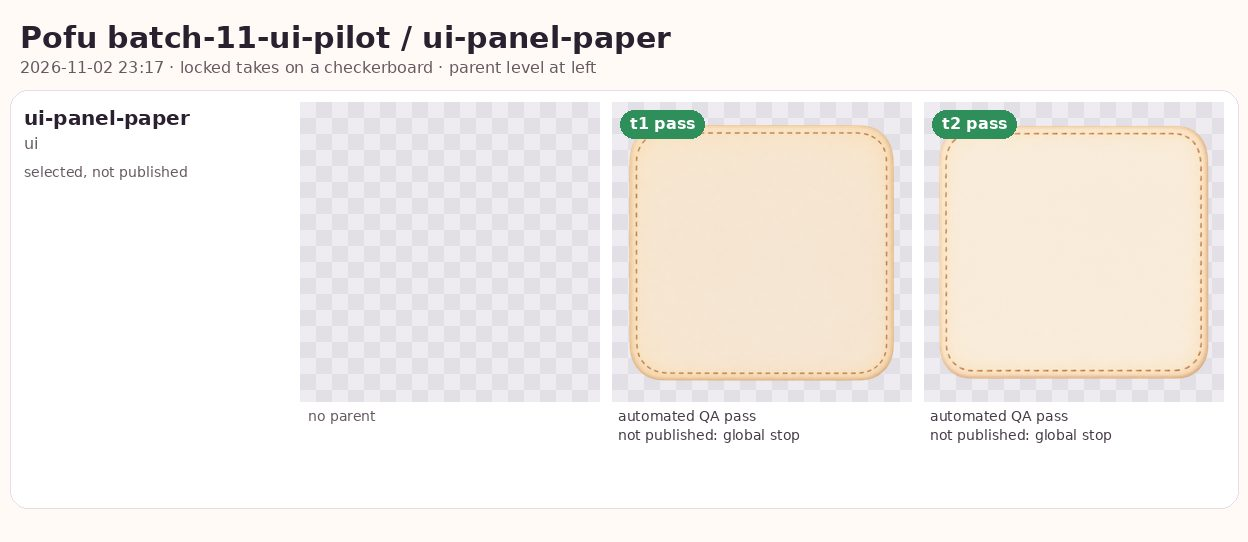
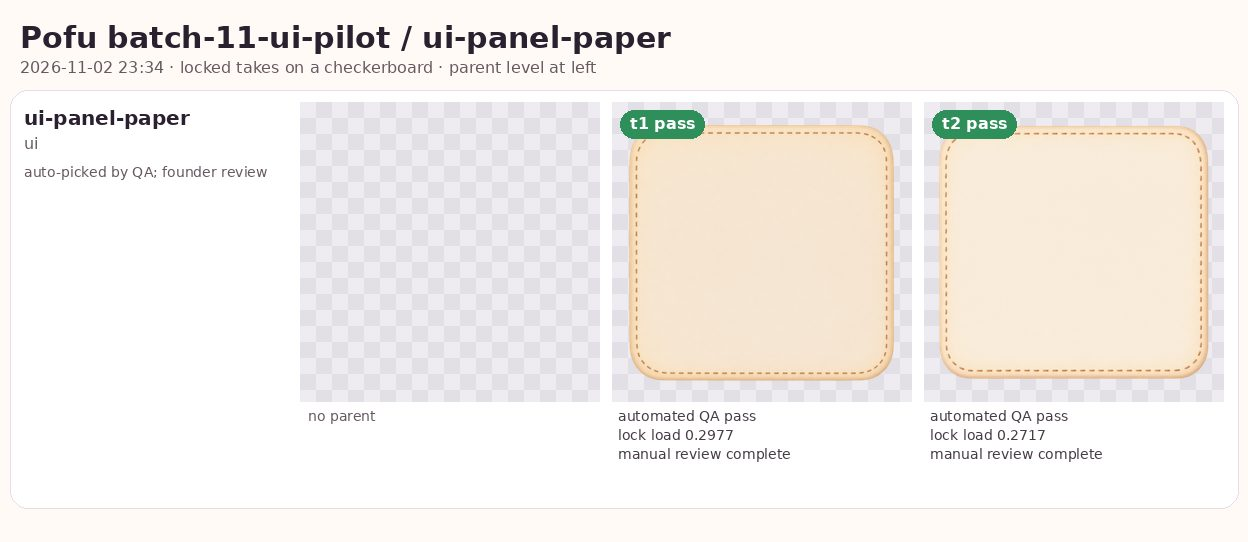
design(art): publish retained ui-panel-paper selection
Generated-With: OpenAI Codex

Changed region(s): [[0.75, 0.797, 0.9062, 0.8561], [0.5, 0.797, 0.6562, 0.8561], [0.0, 0.2952, 0.2188, 0.3247]]

diff --git a/design/art/ui/ui-panel-paper/provenance.md b/design/art/ui/ui-panel-paper/provenance.md
@@ -1,0 +1,71 @@
+# ui__panel-paper
+
+- **Approved:** 2026-11-02T23:33:58+00:00 from batch `batch-11-ui-pilot`, job `ui-panel-paper`, take t2
+  of 2 considered.
+- **Generating account:** Founder's uncle's ChatGPT plan, used by the founder with permission
+  (chatgpt-plan).
+- **Tool:** codex-cloud;
+  generated 2026-11-02T23:14:31+00:00.
+- **Post-processing (human-authored, documented per art bible section 13):**
+  canvas fit, style lock preset `lock-light` (style_lock.json v2).
+- **Files:** `raw.webp` is the take as generated (webp q95), kept so the look can be re-locked; `ui-panel-paper.webp` is the lossless locked master the app and later edits use.
+- **Review note:** auto-picked by QA; founder review pending. Retained take2 reviewed at120pt height: flat unmarked cream centre, stitches and rounded outer edge remain within20pt caps; centre is suitable for tiling.
+
+## References
+
+- `design/reference/palette-card-world-props.png`: The palette card for props.
+
+## Prompt (fingerprint 554bc01cbf23d482)
+
+```text
+REFERENCES (attached, in this order):
+1. The palette card for props.
+
+A cream paper panel with softly rounded corners, a thin row of
+small, even, warm-brown stitches running just inside its edge all
+the way around, a faint darker paper edge outside the stitches. The
+middle is plain, flat, even cream paper with no stains and no
+texture variation, so it can be tiled. Seen straight on. Nothing
+written on it.
+
+CRAFTED FACE: a painted surface for a control that the app slices and
+stretches (the crafted skin of the Home A/B, ADR-0018 timing amendment).
+Paint only the material, never the control's content: no text, no letters,
+no numbers, no symbols, no icons, no glass, no frosted or transparent
+parts. The face is lit from straight above, so the centre is perfectly flat
+and even from left to right and top to bottom of its middle (no gradient
+that would stretch badly, no spots, no texture that varies along the
+width). Every rounded edge, lip and shadow sits inside the outer margin
+that the slice caps will hold; the middle is a plain, calm area. A clean
+silhouette on a transparent background, centered, with no ground shadow,
+no cast shadow, no outline and no border. Material is matte-to-soft-gloss
+clay glaze or paper, painted in the same soft, milky, high-key picture-book
+style as the world's props.
+
+STYLE: soft painterly 2D illustration from the same picture book as the
+attached hamster: the same gentle airbrushed shading, the same light,
+high-key values and the same milky pastel colors. Simple, rounded, chunky
+shapes with few parts; fewer, larger shapes, because this is seen small on
+a phone. Every material is painted matte, as a soft form with broad,
+smooth value changes: wood without grain, metal without hammering or
+reflections, glass as a soft tinted shape, cloth without weave. At most
+one small, soft highlight per object; no glints, no shine. Colors are
+muted and lifted toward cream; the darkest shadow is a warm mid-brown,
+never near black. Warm diffused key light from the upper left, a faint
+warm rim light along the right edge, soft ambient shadow only where forms
+touch. Clean, calm, uncluttered. No outlines, no hard edges. No text, no
+letters, no numbers, no logos, no watermark, no border, no frame, no
+sticker outline.
+
+Output: one image, transparent background PNG, square 1024 x 1024.
+```
+
+## QA at approval
+
+- pass: transparency (source has an alpha channel)
+- pass: canvas (1254x1254 scaled x0.817 into 1024x1024)
+- pass: chroma_ceiling (chroma p95 22 (R1 51))
+- pass: value_floor (lightness p5 88 (R1 59))
+- pass: detail_budget (detail at display size 1.1 (R1 5.3))
+- pass: lock_load (the lock moved colors by mean dE 0.3)
+- pass: palette_drift (mean dE 0.5, p95 1.1, off-palette 0.0%)
